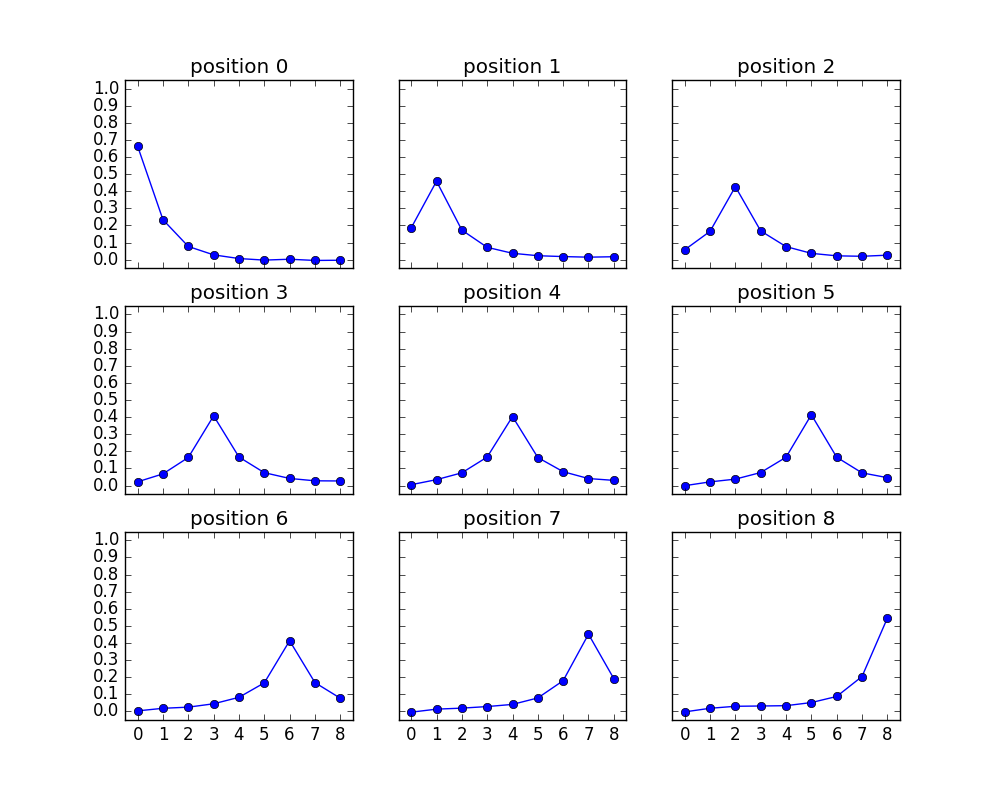
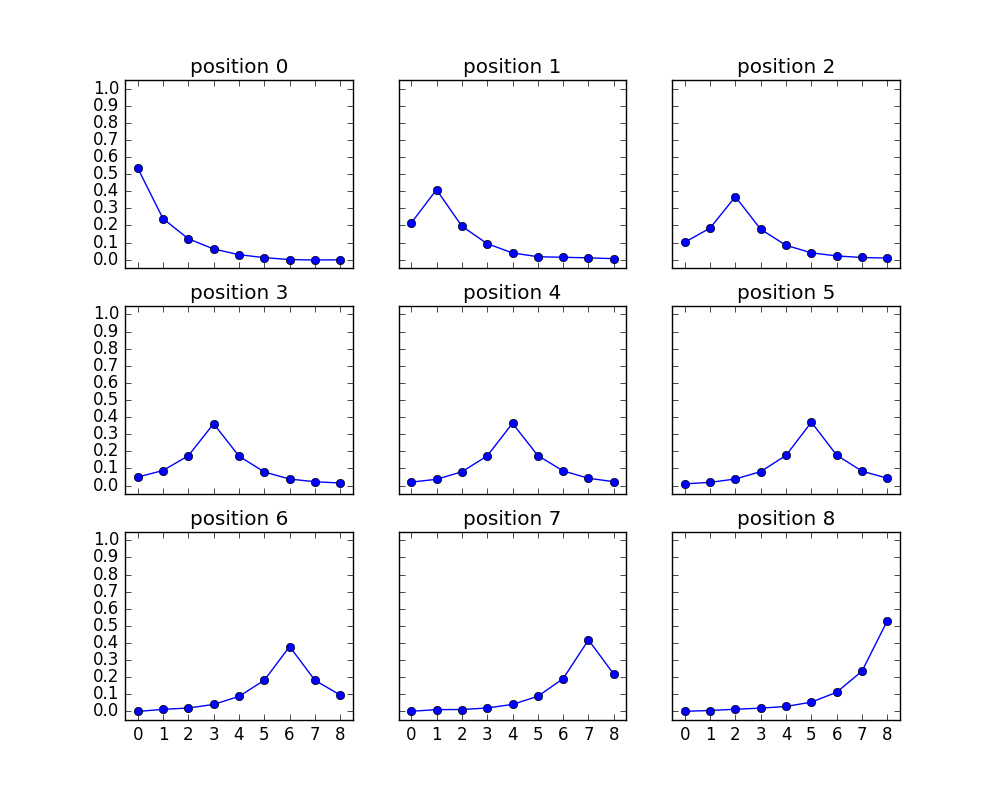
Fixed code & Redrew graphs

diff --git a/README.md b/README.md
@@ -1,2 +1,52 @@
 # drifting-context-hebbian-model
 This Hebbian model simulates the memory performance for a serial recall task by assuming drifting context.
+
+# Assumptions
+I assume that context drifts as time passes or each event happens. It suggests that the representation for the context of position 0 is closer to that of position 1 than that of position 2. The representations with close temporal proximity are similar to each other.
+
+While several variables affect the results, here is an example of the similarity of the representations for the context in this model.
+
+|Rep \ Rep|pos 0|pos 1|pos 2|pos 3|pos 4|pos 5|pos 6|pos 7|pos 8|
+|--:|--:|--:|--:|--:|--:|--:|--:|--:|--:|
+|pos 0|1.|0.48|0.23|0.1|0.05|0.03|0.02|0.01|0.01|
+|pos 1|0.48|1.|0.48|0.23|0.1|0.05|0.03|0.01|0.01|
+|pos 2|0.23|0.48|1.|0.48|0.22|0.1|0.05|0.02|0.01|
+|pos 3|0.1|0.23|0.48|1.|0.48|0.23|0.11|0.05|0.02|
+|pos 4|0.05|0.1|0.22|0.48|1.|0.48|0.23|0.11|0.05|
+|pos 5|0.03|0.05|0.1|0.23|0.48|1.|0.48|0.24|0.11|
+|pos 6|0.02|0.03|0.05|0.11|0.23|0.48|1.|0.48|0.23|
+|pos 7|0.01|0.01|0.02|0.05|0.11|0.24|0.48|1.|0.48|
+|pos 8|0.01|0.01|0.01|0.02|0.05|0.11|0.23|0.48|1.|
+
+In this model, the representations for the context works as the representations for the positions, which are also used as cues for each item at each position. For example, when recalling the item at position 0, the representation for the position 0 is thought to serve as a cue.
+
+# Results
+An example of graphs for accuray and transposition errors is shown.
+
+![graph](https://raw.githubusercontent.com/grocio/drifting-context-hebbian-model/master/accuracy_transposition.png)
+
+The leftmost top graph shows the memory performance for an item at the position 0. X axis is recalled items' positions. Y axis is the probability of recall. The probability of the correct recall is round 0.54 (When recalling an item at position 0, that item is correctly recalled!). The transposition errors refers to the errors of recalling the item at a wrong position. For example, the probability of recall of an item at the position 1 is round 0.24. Compared to the transposition error for an item at position 1, the transposition error for an item at the other positions are relatively small. Because the context drifts, similarity of the positions declines as the interval of the positions increases.
+
+The serial position curve is shown as below.
+
+![graph](https://raw.githubusercontent.com/grocio/drifting-context-hebbian-model/master/serial_position_curve.png)
+
+The graphs were created based on the matrix below (the values might not be the exactly same as the values used for the graphs).
+
+|Cor \ Ans|item 0|item 1|item 2|item 3|item 4|item 5|item 6|item 7|item 8|
+|--:|--:|--:|--:|--:|--:|--:|--:|--:|--:|
+|item 0|0.54|0.24|0.11|0.05|0.02|0.01|0.01|0.|0.01|
+|item 1|0.22|0.41|0.2|0.1|0.04|0.02|0.01|0.|0.|
+|item 2|0.1|0.19|0.38|0.18|0.08|0.04|0.02|0.01|0.01|
+|item 3|0.04|0.09|0.18|0.37|0.18|0.08|0.04|0.02|0.01|
+|item 4|0.02|0.04|0.08|0.18|0.37|0.17|0.08|0.04|0.02|
+|item 5|0.01|0.02|0.04|0.08|0.17|0.37|0.18|0.09|0.04|
+|item 6|0.|0.01|0.02|0.04|0.09|0.18|0.38|0.19|0.1|
+|item 7|0.|0.|0.01|0.02|0.04|0.09|0.2|0.42|0.22|
+|item 8|0.01|0.|0.01|0.01|0.02|0.05|0.11|0.24|0.55|
+
+For example, the values of the first row tell you about the responses when recalling the item at the position 0.
+The on-diagonal values show the probabilities of correct recall.
+
+# Future direction
+The serial position curve seems a little flat. A sharper U-shaped curve might be better. One possible solution is to introduce additional psychological mechanism(s) and implement it(them) in this model. For example, output interference, which is progressive intereference, may play an important role in creating a sharp U-shaped curve.
